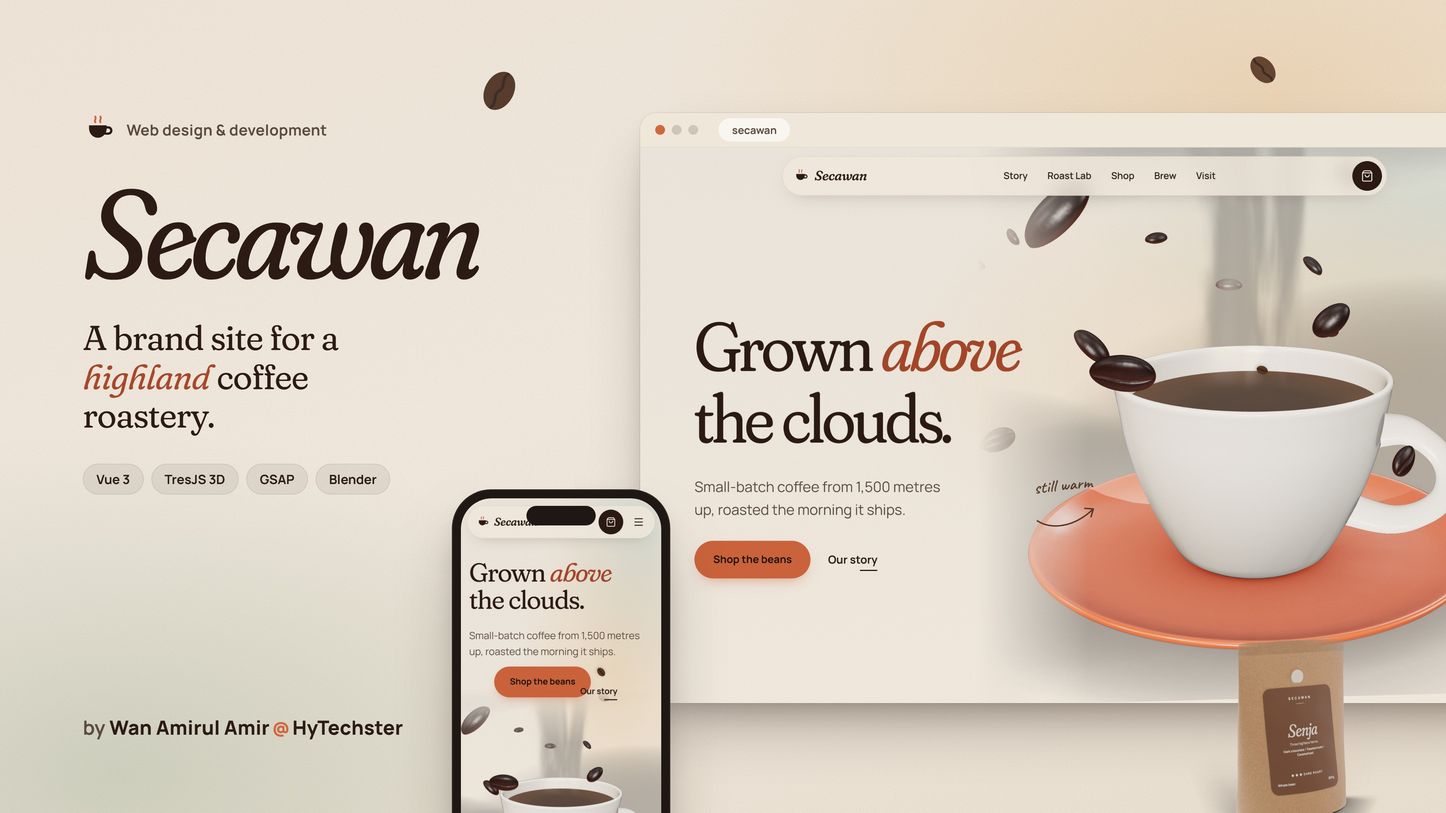
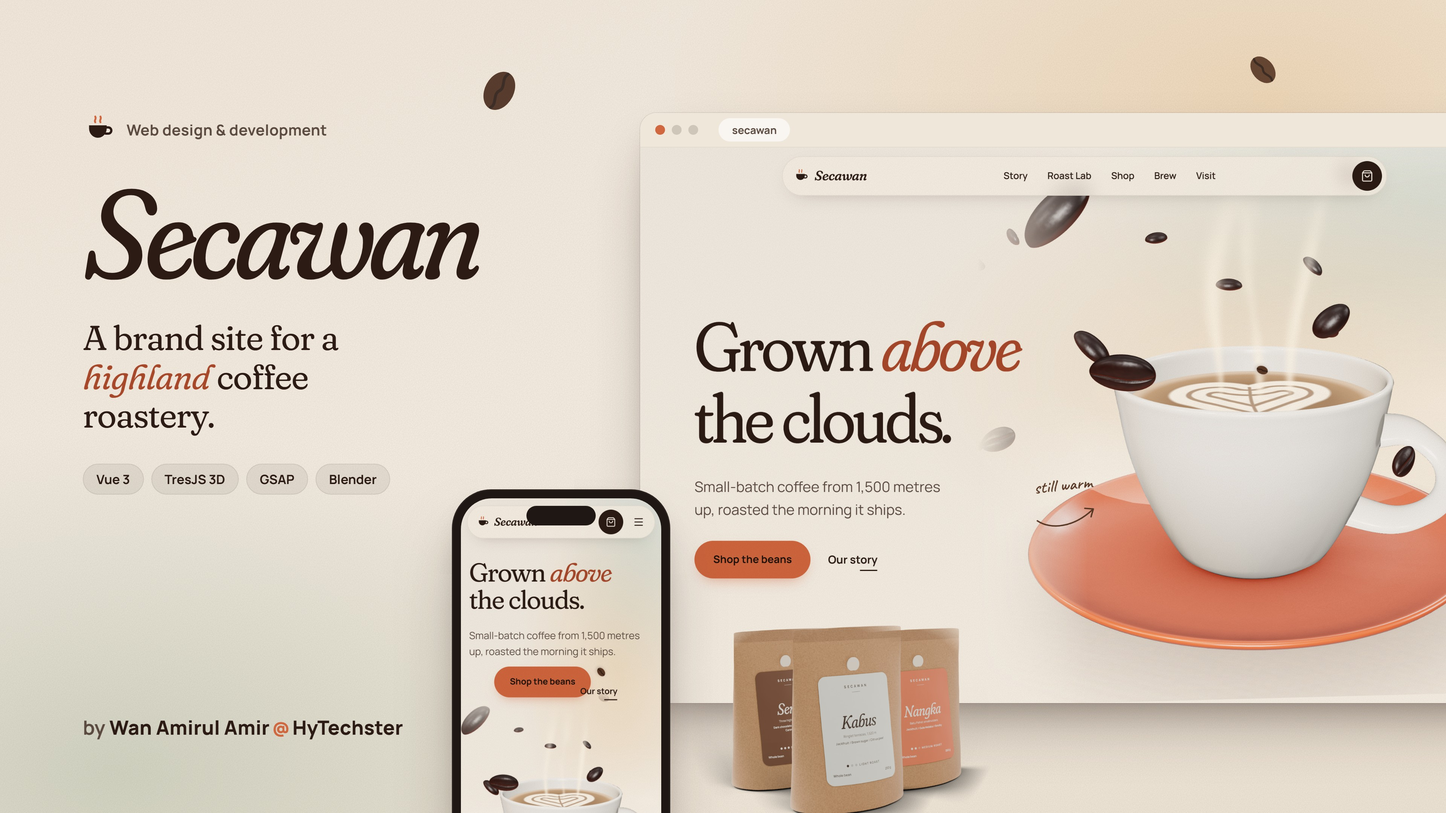
New thumbnail

diff --git a/design/thumbnail/thumbnail.html b/design/thumbnail/thumbnail.html
@@ -189,11 +189,34 @@
         background: #1f1714;
       }
       /* The render's shadow-catcher floor leaves a faint box; feather it away */
-      .bag {
+      /* Three pouches grouped like a shelf display: two behind, one in front */
+      .bags {
         position: absolute;
         z-index: 2;
+      }
+      .bag {
+        position: absolute;
+        bottom: 0;
+        /* The renders' shadow-catcher floor leaves a faint box; feather it away */
         -webkit-mask-image: radial-gradient(ellipse 46% 52% at 50% 52%, #000 72%, transparent 100%);
         mask-image: radial-gradient(ellipse 46% 52% at 50% 52%, #000 72%, transparent 100%);
+      }
+      .bag--back {
+        width: 60%;
+        left: 0;
+        bottom: 9%;
+        z-index: 1;
+      }
+      .bag--side {
+        width: 60%;
+        right: 0;
+        bottom: 9%;
+        z-index: 1;
+      }
+      .bag--front {
+        width: 70%;
+        left: 15%;
+        z-index: 2;
       }
       .bean {
         position: absolute;
@@ -240,10 +263,12 @@
         right: 70px;
         bottom: -170px;
       }
-      .r4x3 .bag {
-        width: 300px;
-        left: 590px;
-        bottom: -30px;
+      /* Line-up sits just left of the phone, in front of the browser's lower edge */
+      .r4x3 .bags {
+        width: 440px;
+        height: 430px;
+        right: 330px;
+        bottom: -40px;
       }
       .r4x3 .bean--a {
         left: 900px;
@@ -295,10 +320,12 @@
         left: 600px;
         bottom: -170px;
       }
-      .r16x9 .bag {
-        width: 300px;
-        right: 60px;
-        bottom: -60px;
+      /* Line-up sits just right of the phone, in front of the browser's lower edge */
+      .r16x9 .bags {
+        width: 440px;
+        height: 430px;
+        left: 900px;
+        bottom: -50px;
       }
       .r16x9 .bean--a {
         left: 640px;
@@ -350,7 +377,12 @@
         <img src="shots/desktop-hero.png" alt="" />
       </div>
       <div class="phone"><img src="shots/mobile-hero.png" alt="" /></div>
-      <img class="bag" src="../blender/renders/bags/senja.png" alt="" />
+      <!-- A small product line-up standing beside the phone -->
+      <div class="bags">
+        <img class="bag bag--back" src="../blender/renders/bags/senja.png" alt="" />
+        <img class="bag bag--front" src="../blender/renders/bags/kabus.png" alt="" />
+        <img class="bag bag--side" src="../blender/renders/bags/nangka.png" alt="" />
+      </div>
     </main>
     <script>
       const size = new URLSearchParams(location.search).get('size') || '4x3'
